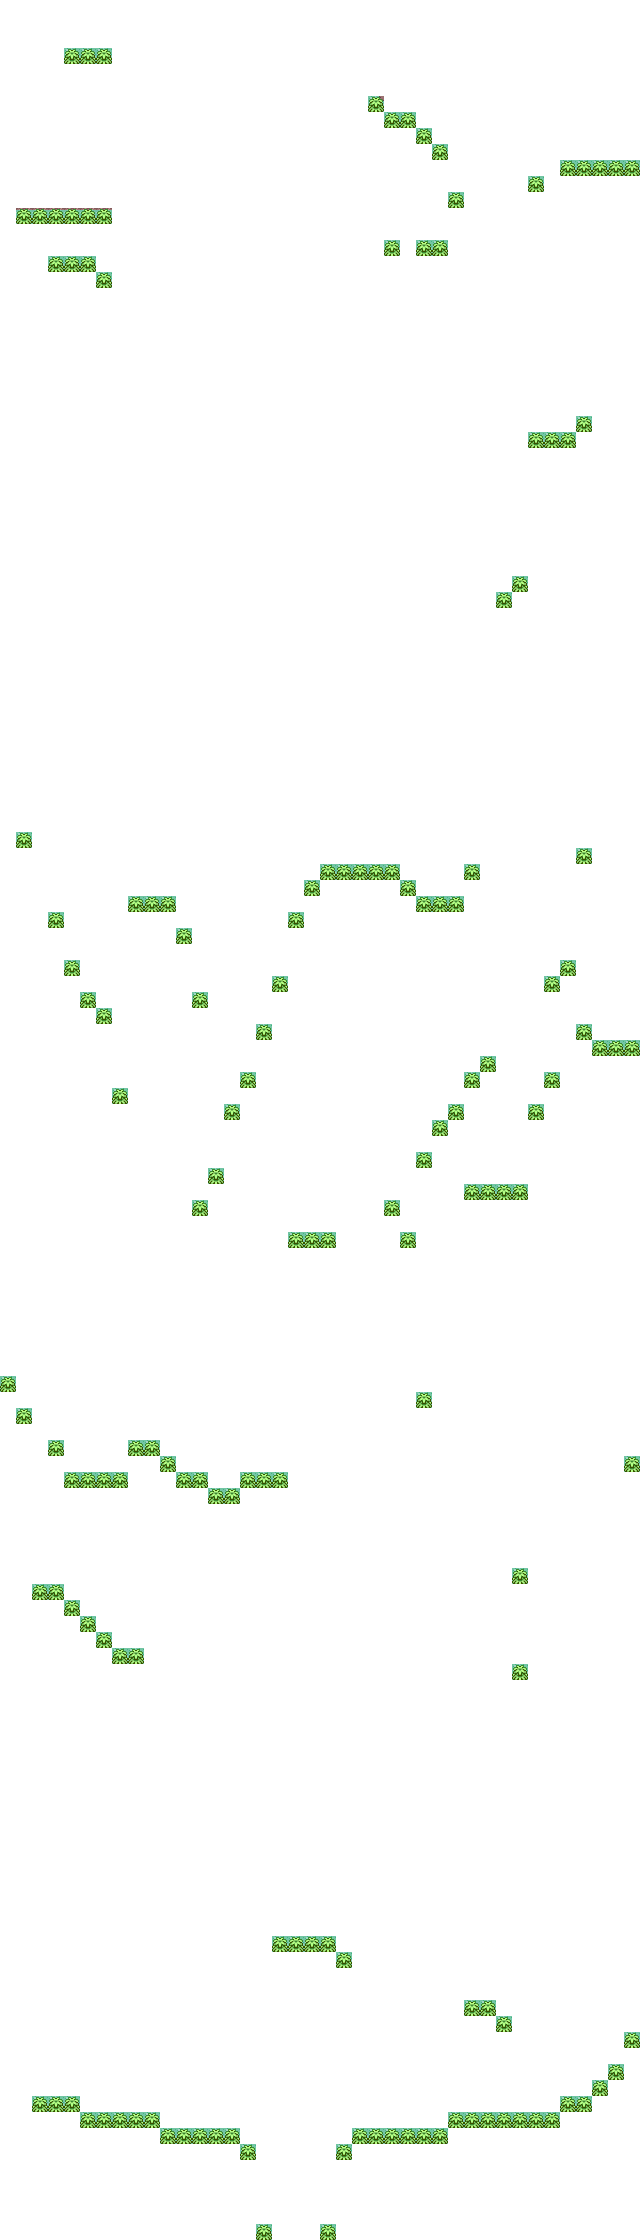
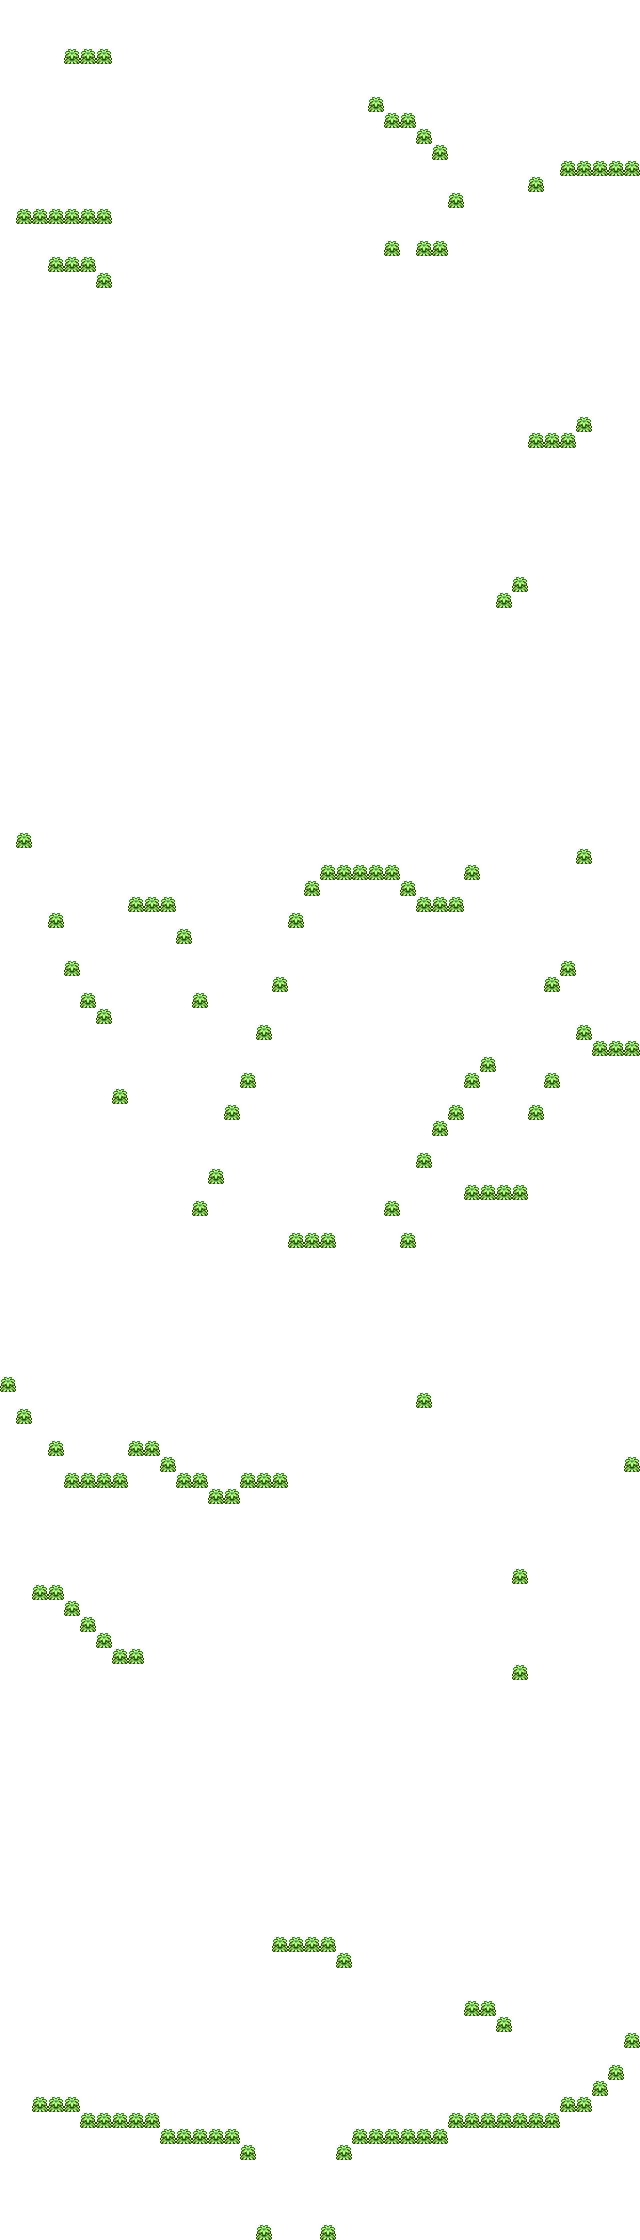
Route 119: its treetops' overhead the trees alone, not their tiles' squares
The user's: the overhead copied each treetop tile whole, so the ground round the tree's top (and the riverbank's) was drawn over the person behind it in a square. Only the trees' own colours are kept now (TREETOP_COLOURS, only_colours in hoenn_maps.py), the rest see-through, so they're hidden along the tree's outline.

diff --git a/tools/routes/emerald/hoenn_maps.py b/tools/routes/emerald/hoenn_maps.py
@@ -125,6 +125,9 @@ USER_ROUTE_TREETOPS = {'mauville': (8, 93)}
 # Treetops drawn over the player standing on them instead (the user's: Route 119's), found as `treetops` finds them and
 # copied whole into the route's overhead image (<image>_overhead.png).
 USER_ROUTE_TREETOP_OVERHEAD = {'fortree': (17, 121)}
+# The treetops' own colours (Route 119's trees): only these are kept in the overhead, the ground round each tree's top
+# (and the riverbank's) see-through, so the people behind it are hidden by the tree's outline, not the tile's square (the user's).
+TREETOP_COLOURS = {(0x39, 0x8b, 0x31), (0x39, 0x52, 0x00), (0x83, 0xc5, 0x62), (0xb4, 0xff, 0x83)}
 # Spots whose figures go another way than the map's flow (by encounter number, from 1; the Route's `spotFlows`): the
 # third figure, past the two beside the player, in line ahead the way given (Route 110's encounter 6: south; its 8th's
 # right, the two beside him above and below; the user's).
@@ -534,6 +537,13 @@ def pillar_edges(img, rows):
             and any(src.getpixel((tx * TILE + c, ty * TILE + r)) in OUTLINES for c in range(TILE) for r in range(TILE))]
 
 
+def only_colours(img, colours):
+    """An overhead image with every pixel not of `colours` made see-through (TREETOP_COLOURS: the trees alone)."""
+    out = img.convert('RGBA')
+    out.putdata([p if p[3] and p[:3] in colours else (0, 0, 0, 0) for p in out.getdata()])
+    return out
+
+
 def wall_overhead(img, tiles, whole=(), outline_from=OUTLINE_FROM):
     """The map's overhead image (see-through but for the walls of `tiles` and the `whole` tiles): down each column of each
     tile, from the wall's outline to the tile's foot, so a person standing there is behind the wall's top."""
@@ -614,7 +624,7 @@ def main():
         overhead = None
         if key in USER_ROUTE_TREETOP_OVERHEAD:
             overhead = cfg['image'].replace('.png', '_overhead.png')
-            wall_overhead(img, [], treetops(img, rows, USER_ROUTE_TREETOP_OVERHEAD[key])).save(os.path.join(PUBLIC, overhead))
+            only_colours(wall_overhead(img, [], treetops(img, rows, USER_ROUTE_TREETOP_OVERHEAD[key])), TREETOP_COLOURS).save(os.path.join(PUBLIC, overhead))
         rows = [list(r) for r in rows]
         for x, y in tops:
             rows[y][x] = '#'

diff --git a/README.md b/README.md
@@ -635,7 +635,7 @@ The overworld sprites in `apps/web/public/trainers/` are the bosses' front-facin
 
 **Johto's bosses** (`johto-bosses.ts`, merged into `BOSSES`): Falkner, Bugsy, Whitney, Morty, Chuck, Jasmine, Pryce and Clair, the Elite Four Will, Koga, Bruno and Karen, and Champion Lance (boss ids `johto-koga`, `johto-bruno` and `johto-lance`, as Kanto has its own Koga, Bruno and Lance). No Game Boy game plays the Neo and e-Card sets, so their decks are our own: each built around the character's team in Gold, Silver and Crystal (and HeartGold and SoulSilver), from Gen 2's sets only, with Neo Genesis's basic Energy, Darkness or Metal Energy where they need it, and Gen 2's Trainers (Professor Elm, Pokémon March, Gold Berry…). A gym whose type has no basic Energy (Falkner's and Whitney's Colorless, Jasmine's Metal) gives its Gym Trainer a deck built from its favourite Pokémon (`gym.favorites`), and such decks name their types for the run picker (`types`). Beating them gives the Johto badges (Zephyr to Rising) and the Johto Champion Ribbon. Their run picker sprites are their HeartGold/SoulSilver overworld sprites (`public/trainers/`, each standing facing down, cropped to the figure: the [pret/pokeheartgold](https://github.com/pret/pokeheartgold) decompilation's GSLEADER1–8, GSBIGFOUR1–4 and WATARU sheets, by `tools/routes/hgss/hgss_sprites.py`'s `boss` layout; they replaced Crystal's).
 
-**Hoenn maps** (Gen 3, from Pokémon R/S/E): each Hoenn gym run crosses one Emerald map, 10 encounters, then its gym, in the order Emerald visits them: Petalburg Woods (Rustboro City, from Route 104 at the bottom), Route 106 (Dewford Town, surfed from the west), Route 110 (Mauville City, up the Seaside Cycling Road on a bike, most of its trainers its Triathletes, `TRIATHLETES`), Jagged Pass (Lavaridge Town, down from Mt. Chimney), Route 102 (Petalburg City, from Oldale Town in the east), Route 119 (Fortree City, up along the river), Route 124 (Mossdeep City, surfed from Lilycove) and Sootopolis City (from the top of the crater down through the city, then surfing its lake to the gym's island). The surfed maps' trainers are Swimmers, and their spots follow the surf rules (out at sea only battles, by the shore only non-battle encounters), but Sootopolis's spots on land are ordinary ones (`landSpots` on its `Route`: any encounter, battles against anyone but a Swimmer). Emerald is a GBA game like FireRed, so `tools/routes/emerald/emerald_map.py` draws a map from a checkout of the [pret/pokeemerald](https://github.com/pret/pokeemerald) decompilation as `render_route.py` does FireRed's, with Emerald's tileset sizes (512 tiles and metatiles in a primary tileset, 6 palettes) and its 16-bit metatile attributes, and writes which tiles can be walked on, the tall grass and the water. `hoenn_maps.py` picks each map's spots along the walk from the edge the run starts at (`hoenn-routes.ts`); the user's fixes are made after (`USER_ROUTE_WALKABLE`, `USER_ROUTE_UNWALKABLE`, `USER_SPOTS`, so the other spots stay put): Route 110's 14–25,79, 9,32, 14–30,32, 25,29, 25,15 and 29,15 unwalkable, 21,78, 16,55, 9,57 and 27,24 walkable and its encounters moved (encounter 1 at 12,91 on the sandy road from Slateport, then 28,85, 17,78, 18,55, 11,53, 12,31 (its figures going south, `USER_SPOT_FLOWS` and the Route's `spotFlows`: the third one 2 tiles south of the player), 27,30, 28,8 (its figures above and below the player, the third to his right: flow right), 6,14, 12,8); the run comes in at 17,99 from Slateport (`USER_ROUTE_ENTRANCE`) and walks up the sandy road on foot (`onFoot: true` on the `Route`, `USER_ROUTE_ON_FOOT`: come in on foot, each link switching the player between on foot and the route's travel; `travelAt` gives each tile's travel as the route's walk, from the entrance to each spot in turn and the exit, has it, a tile off the walk as the walk's nearest, read for the player's sprite, his pace, the music and the trainers, an encounter on foot meeting no Triathletes), after encounter 1 into the Cycling Road's south gatehouse at its left door, 16,88, fading out and back in at its right door, 19,88, on his bike from there with the Cycling Road's rules; after encounter 8 into its north gatehouse at 18,16 and out at 15,16 on foot again, on to encounters 9 and 10 and out of the route at 15,0 (`USER_ROUTE_LINKS`, the doors made walkable, `USER_ROUTE_EXIT`; the user's); through each gatehouse fading out still facing up into its door and back in facing down out of the other (`doors: true` on the `Route`, `USER_ROUTE_DOORS`, read by useWalk; the user's); and its treetops unwalkable (the user's: 50 tiles, `treetops` with `USER_ROUTE_TREETOPS`: each walkable tile with a wall or the map's edge below that shares 75% of its pixels with the treetop at 8,93, its ground around it being grass, sand or water's edge). Jagged Pass (the user's): in at 14,0 down its ash path from Mt. Chimney (12–15,0–3, 13–14,4 and its wooden steps 13–14,5 made walkable), encounter 1 at 14,3 (its figures either side of the player, the third below: the map's flow), then 18,8 (either side, the third above: `spotFlows` up), 10,20, 14,21, 20,20, 22,24, 20,32, 16,34, 9,33 and 14,36, out at 15,43 down its dirt path to Lavaridge (14–15,40–43 made walkable, `USER_ROUTE_EXIT`); its rock ridges between two levels are ledges jumped going down (the user's: 64 tiles, every wall with walkable tiles above and below drawn as one of 17–22,33, `ledges` with `USER_ROUTE_LEDGES`). Route 102 (the user's): in at 49,10, its encounters at 44,9, 37,5, 38,13, 31,15, 25,17, 19,12, 19,4, 27,4, 10,4 and 3,8 (18,11, 19,4, 25,15 and 37,4 made walkable; encounters 2, 3 and 6 with their figures either side, the third above: `spotFlows` up, the map flowing left), out at 0,8 (`USER_ROUTE_EXIT`). Petalburg Gym's Gym Trainer at 4,55, the player at 4,56 (the user's, `USER_GYM_TRAINER`). Route 119's treetops drawn over the player standing on them (the user's: 157 tiles found as Route 110's are, `treetops`, copied whole into `route119_overhead.png`, the route's `overhead`: `USER_ROUTE_TREETOP_OVERHEAD`). Its exit 38,8 (the user's). Its encounters (the user's): 24,124, 27,112, 30,102, 35,85, 6,78, 14,61, 17,46, 8,36, 27,33 and 31,11, its bridge's west end (13,33–34) and 17,33 on it, 25,32 and 28,25 made walkable. Route 119's very tall grass (765 tiles; its 133 tall grass tiles are the patches' foot, long grass above a band of ground: `onLongGrassEdge`, a tall grass tile beside long grass, shows long grass's tufts cut off above the band, the user's, and hides the bottom of those in it as tall grass does) is Emerald's long grass (`'L'` in a route's `grass`, `inLongGrass`; `inGrass` counts it too): its own tufts (FLDEFF_LONG_GRASS, `rse/long_grass.png`, its own animation, always in front of the one in it), and once someone has stepped from long grass onto long grass, their whole bottom tile hidden, as the game draws it behind the grass (`LONG_GRASS_MASK`). (The long grass markings and code are from PR 165's commit 8f971d3, the rest of that PR left out: the user's.) Each gym is the leader's map (`hoenn-gyms.ts`), with, from its events, the door, the Gym Trainer where the gym's trainer nearest halfway in along the walk to the leader stands (Sootopolis's and Lavaridge's, whose trainers aren't on that walk, beside it halfway), the leader in their place, and the Gym Guide; Petalburg Gym's rooms are joined through their doors (`links`), Lavaridge Gym's corridor to Flannery's room by its sand geyser at 8,9 to 12,12 (the user's, with its Gym Trainer's spot at 9,13 and the trainer at 8,13: `USER_LINKS`, `USER_GYM_TRAINER`; through a link that isn't a building's doors the player keeps the facing he came onto it with, from fading out to fading back in, useWalk), ledges in a gym are walked either way (Lavaridge's sand slopes), and Mauville Gym's electric barriers across the middle are open (the gym puzzles the map data doesn't show solved; its picture's barrier between the pylons, 4–5,6–7, drawn as plain floor, its 4,5: `USER_TILE_COPIES`, the user's). The Hoenn Gym Challenge and Champion runs have a map per step as Kanto's: each leader in their gym, the Elite Four's and Wallace's rooms at the Pokémon League, and Lavaridge Town's Pokémon Center (`HOENN_BOSS_ROOMS`, `HOENN_POKEMON_CENTER`). The maps use Emerald's overworld sprites (`sprites: 'rse'`, `public/overworld/rse/`, by `emerald_sprites.py`: each sprite's frames in its frame table's order, with its palette): Brendan walks, rides his bike and surfs (on the surf blob in his palette, as `emerald_sprites.py` draws it, 8 pixels below him: the whole blob, so the strip is 40 pixels tall, `SURF_HEIGHT` there and `spriteHeight` in overworld.ts, the user's; and it bobs as Emerald's `UpdateBobbingEffect` moves the surfing player, a pixel every 4 frames, up 4 and back down over 32, still or moving: `surfBobs` in overworld.ts, `SURF_MASK` and `SURF_BOB` in RouteSprites.tsx, the `surf-bob` animation in index.css; FireRed's Red and Leaf surfing too (their bottom fading into the water over 3 pixels, `SURF_MASK`: their blob is never whole), on the Kanto maps and in the Idle Adventure, whose surf blob under the player fishing from the water bobs with him; the user's); each trainer class and non-battle encounter has Emerald's nearest sprite, and the Hoenn gyms' trainers the sprites Emerald draws them with. The run picker's Hoenn bosses are their Emerald overworld sprites' front-facing frames (Tate and Liza side by side), and the Hoenn badges are PokeAPI's badge artwork, as the others are.
+**Hoenn maps** (Gen 3, from Pokémon R/S/E): each Hoenn gym run crosses one Emerald map, 10 encounters, then its gym, in the order Emerald visits them: Petalburg Woods (Rustboro City, from Route 104 at the bottom), Route 106 (Dewford Town, surfed from the west), Route 110 (Mauville City, up the Seaside Cycling Road on a bike, most of its trainers its Triathletes, `TRIATHLETES`), Jagged Pass (Lavaridge Town, down from Mt. Chimney), Route 102 (Petalburg City, from Oldale Town in the east), Route 119 (Fortree City, up along the river), Route 124 (Mossdeep City, surfed from Lilycove) and Sootopolis City (from the top of the crater down through the city, then surfing its lake to the gym's island). The surfed maps' trainers are Swimmers, and their spots follow the surf rules (out at sea only battles, by the shore only non-battle encounters), but Sootopolis's spots on land are ordinary ones (`landSpots` on its `Route`: any encounter, battles against anyone but a Swimmer). Emerald is a GBA game like FireRed, so `tools/routes/emerald/emerald_map.py` draws a map from a checkout of the [pret/pokeemerald](https://github.com/pret/pokeemerald) decompilation as `render_route.py` does FireRed's, with Emerald's tileset sizes (512 tiles and metatiles in a primary tileset, 6 palettes) and its 16-bit metatile attributes, and writes which tiles can be walked on, the tall grass and the water. `hoenn_maps.py` picks each map's spots along the walk from the edge the run starts at (`hoenn-routes.ts`); the user's fixes are made after (`USER_ROUTE_WALKABLE`, `USER_ROUTE_UNWALKABLE`, `USER_SPOTS`, so the other spots stay put): Route 110's 14–25,79, 9,32, 14–30,32, 25,29, 25,15 and 29,15 unwalkable, 21,78, 16,55, 9,57 and 27,24 walkable and its encounters moved (encounter 1 at 12,91 on the sandy road from Slateport, then 28,85, 17,78, 18,55, 11,53, 12,31 (its figures going south, `USER_SPOT_FLOWS` and the Route's `spotFlows`: the third one 2 tiles south of the player), 27,30, 28,8 (its figures above and below the player, the third to his right: flow right), 6,14, 12,8); the run comes in at 17,99 from Slateport (`USER_ROUTE_ENTRANCE`) and walks up the sandy road on foot (`onFoot: true` on the `Route`, `USER_ROUTE_ON_FOOT`: come in on foot, each link switching the player between on foot and the route's travel; `travelAt` gives each tile's travel as the route's walk, from the entrance to each spot in turn and the exit, has it, a tile off the walk as the walk's nearest, read for the player's sprite, his pace, the music and the trainers, an encounter on foot meeting no Triathletes), after encounter 1 into the Cycling Road's south gatehouse at its left door, 16,88, fading out and back in at its right door, 19,88, on his bike from there with the Cycling Road's rules; after encounter 8 into its north gatehouse at 18,16 and out at 15,16 on foot again, on to encounters 9 and 10 and out of the route at 15,0 (`USER_ROUTE_LINKS`, the doors made walkable, `USER_ROUTE_EXIT`; the user's); through each gatehouse fading out still facing up into its door and back in facing down out of the other (`doors: true` on the `Route`, `USER_ROUTE_DOORS`, read by useWalk; the user's); and its treetops unwalkable (the user's: 50 tiles, `treetops` with `USER_ROUTE_TREETOPS`: each walkable tile with a wall or the map's edge below that shares 75% of its pixels with the treetop at 8,93, its ground around it being grass, sand or water's edge). Jagged Pass (the user's): in at 14,0 down its ash path from Mt. Chimney (12–15,0–3, 13–14,4 and its wooden steps 13–14,5 made walkable), encounter 1 at 14,3 (its figures either side of the player, the third below: the map's flow), then 18,8 (either side, the third above: `spotFlows` up), 10,20, 14,21, 20,20, 22,24, 20,32, 16,34, 9,33 and 14,36, out at 15,43 down its dirt path to Lavaridge (14–15,40–43 made walkable, `USER_ROUTE_EXIT`); its rock ridges between two levels are ledges jumped going down (the user's: 64 tiles, every wall with walkable tiles above and below drawn as one of 17–22,33, `ledges` with `USER_ROUTE_LEDGES`). Route 102 (the user's): in at 49,10, its encounters at 44,9, 37,5, 38,13, 31,15, 25,17, 19,12, 19,4, 27,4, 10,4 and 3,8 (18,11, 19,4, 25,15 and 37,4 made walkable; encounters 2, 3 and 6 with their figures either side, the third above: `spotFlows` up, the map flowing left), out at 0,8 (`USER_ROUTE_EXIT`). Petalburg Gym's Gym Trainer at 4,55, the player at 4,56 (the user's, `USER_GYM_TRAINER`). Route 119's treetops drawn over the player standing on them (the user's: 157 tiles found as Route 110's are, `treetops`, copied whole into `route119_overhead.png`, the route's `overhead`: `USER_ROUTE_TREETOP_OVERHEAD`; only the trees' own colours kept, `TREETOP_COLOURS`, so the ground round them never covers anyone). Its exit 38,8 (the user's). Its encounters (the user's): 24,124, 27,112, 30,102, 35,85, 6,78, 14,61, 17,46, 8,36, 27,33 and 31,11, its bridge's west end (13,33–34) and 17,33 on it, 25,32 and 28,25 made walkable. Route 119's very tall grass (765 tiles; its 133 tall grass tiles are the patches' foot, long grass above a band of ground: `onLongGrassEdge`, a tall grass tile beside long grass, shows long grass's tufts cut off above the band, the user's, and hides the bottom of those in it as tall grass does) is Emerald's long grass (`'L'` in a route's `grass`, `inLongGrass`; `inGrass` counts it too): its own tufts (FLDEFF_LONG_GRASS, `rse/long_grass.png`, its own animation, always in front of the one in it), and once someone has stepped from long grass onto long grass, their whole bottom tile hidden, as the game draws it behind the grass (`LONG_GRASS_MASK`). (The long grass markings and code are from PR 165's commit 8f971d3, the rest of that PR left out: the user's.) Each gym is the leader's map (`hoenn-gyms.ts`), with, from its events, the door, the Gym Trainer where the gym's trainer nearest halfway in along the walk to the leader stands (Sootopolis's and Lavaridge's, whose trainers aren't on that walk, beside it halfway), the leader in their place, and the Gym Guide; Petalburg Gym's rooms are joined through their doors (`links`), Lavaridge Gym's corridor to Flannery's room by its sand geyser at 8,9 to 12,12 (the user's, with its Gym Trainer's spot at 9,13 and the trainer at 8,13: `USER_LINKS`, `USER_GYM_TRAINER`; through a link that isn't a building's doors the player keeps the facing he came onto it with, from fading out to fading back in, useWalk), ledges in a gym are walked either way (Lavaridge's sand slopes), and Mauville Gym's electric barriers across the middle are open (the gym puzzles the map data doesn't show solved; its picture's barrier between the pylons, 4–5,6–7, drawn as plain floor, its 4,5: `USER_TILE_COPIES`, the user's). The Hoenn Gym Challenge and Champion runs have a map per step as Kanto's: each leader in their gym, the Elite Four's and Wallace's rooms at the Pokémon League, and Lavaridge Town's Pokémon Center (`HOENN_BOSS_ROOMS`, `HOENN_POKEMON_CENTER`). The maps use Emerald's overworld sprites (`sprites: 'rse'`, `public/overworld/rse/`, by `emerald_sprites.py`: each sprite's frames in its frame table's order, with its palette): Brendan walks, rides his bike and surfs (on the surf blob in his palette, as `emerald_sprites.py` draws it, 8 pixels below him: the whole blob, so the strip is 40 pixels tall, `SURF_HEIGHT` there and `spriteHeight` in overworld.ts, the user's; and it bobs as Emerald's `UpdateBobbingEffect` moves the surfing player, a pixel every 4 frames, up 4 and back down over 32, still or moving: `surfBobs` in overworld.ts, `SURF_MASK` and `SURF_BOB` in RouteSprites.tsx, the `surf-bob` animation in index.css; FireRed's Red and Leaf surfing too (their bottom fading into the water over 3 pixels, `SURF_MASK`: their blob is never whole), on the Kanto maps and in the Idle Adventure, whose surf blob under the player fishing from the water bobs with him; the user's); each trainer class and non-battle encounter has Emerald's nearest sprite, and the Hoenn gyms' trainers the sprites Emerald draws them with. The run picker's Hoenn bosses are their Emerald overworld sprites' front-facing frames (Tate and Liza side by side), and the Hoenn badges are PokeAPI's badge artwork, as the others are.
 
 **Hoenn's bosses** (`hoenn-bosses.ts`, merged into `BOSSES`): Roxanne, Brawly, Wattson, Flannery, Norman, Winona, Tate & Liza (boss id `tate-liza`) and Juan, the Elite Four Sidney, Phoebe, Glacia and Drake, and Champion Wallace, as Emerald has them. Their decks are our own, as Johto's are: each built around the character's team in Emerald, from the EX sets only, with EX Ruby & Sapphire's basic Energy, special Energy where they need it (Sidney's Darkness, Dark Metal and Multi Energy), Gen 3's Trainers (Professor Birch, Steven's Advice, Rare Candy, Great Ball…) and their own Stadium for the Elite Four (Sidney's, Phoebe's, Glacia's and Drake's Stadium), each with one Pokémon-ex at most as its star. Their Gym Trainers are the trainers in their gym in Emerald (every room's). Norman's and Winona's gyms (Normal and Flying) have no basic Energy type, so their Gym Trainers' decks are built from the gym's favourite Pokémon. Their badges are the Stone, Knuckle, Dynamo, Heat, Balance, Feather, Mind and Rain Badges, and Wallace's prize the Hoenn Champion Ribbon.
 
